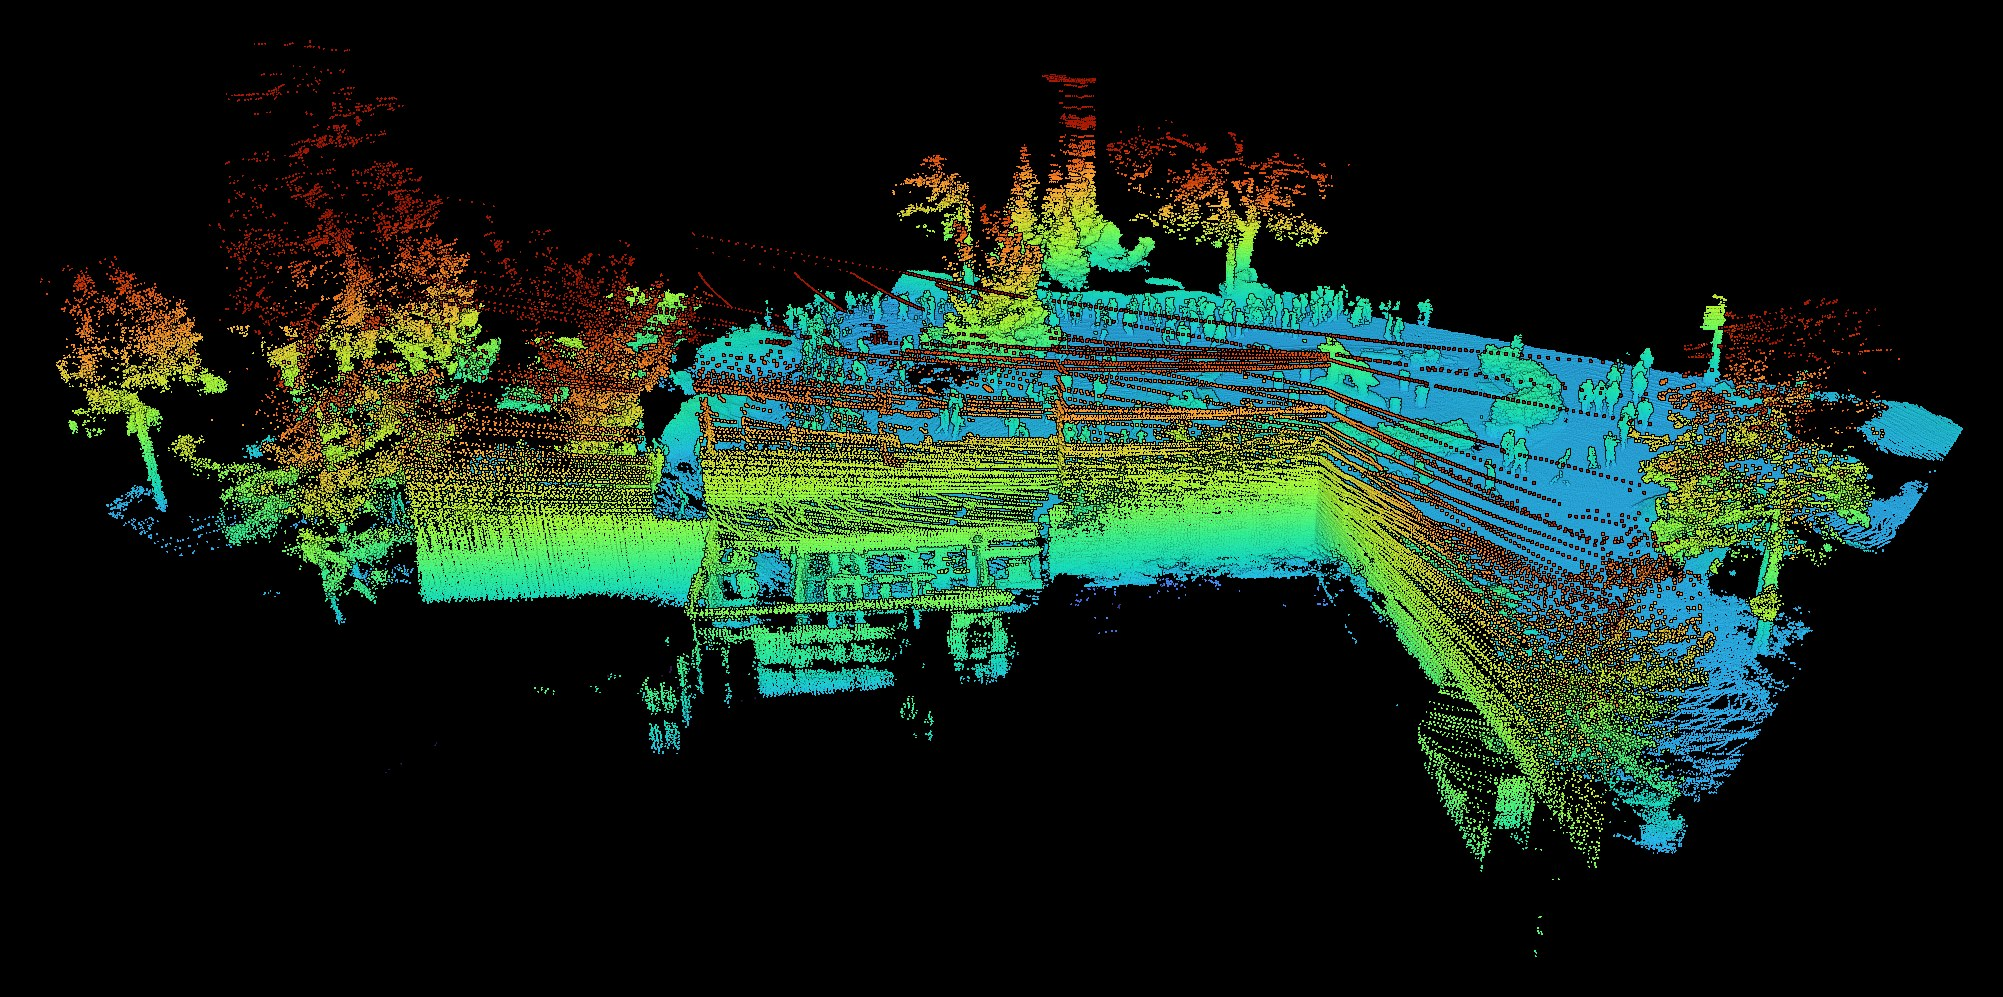
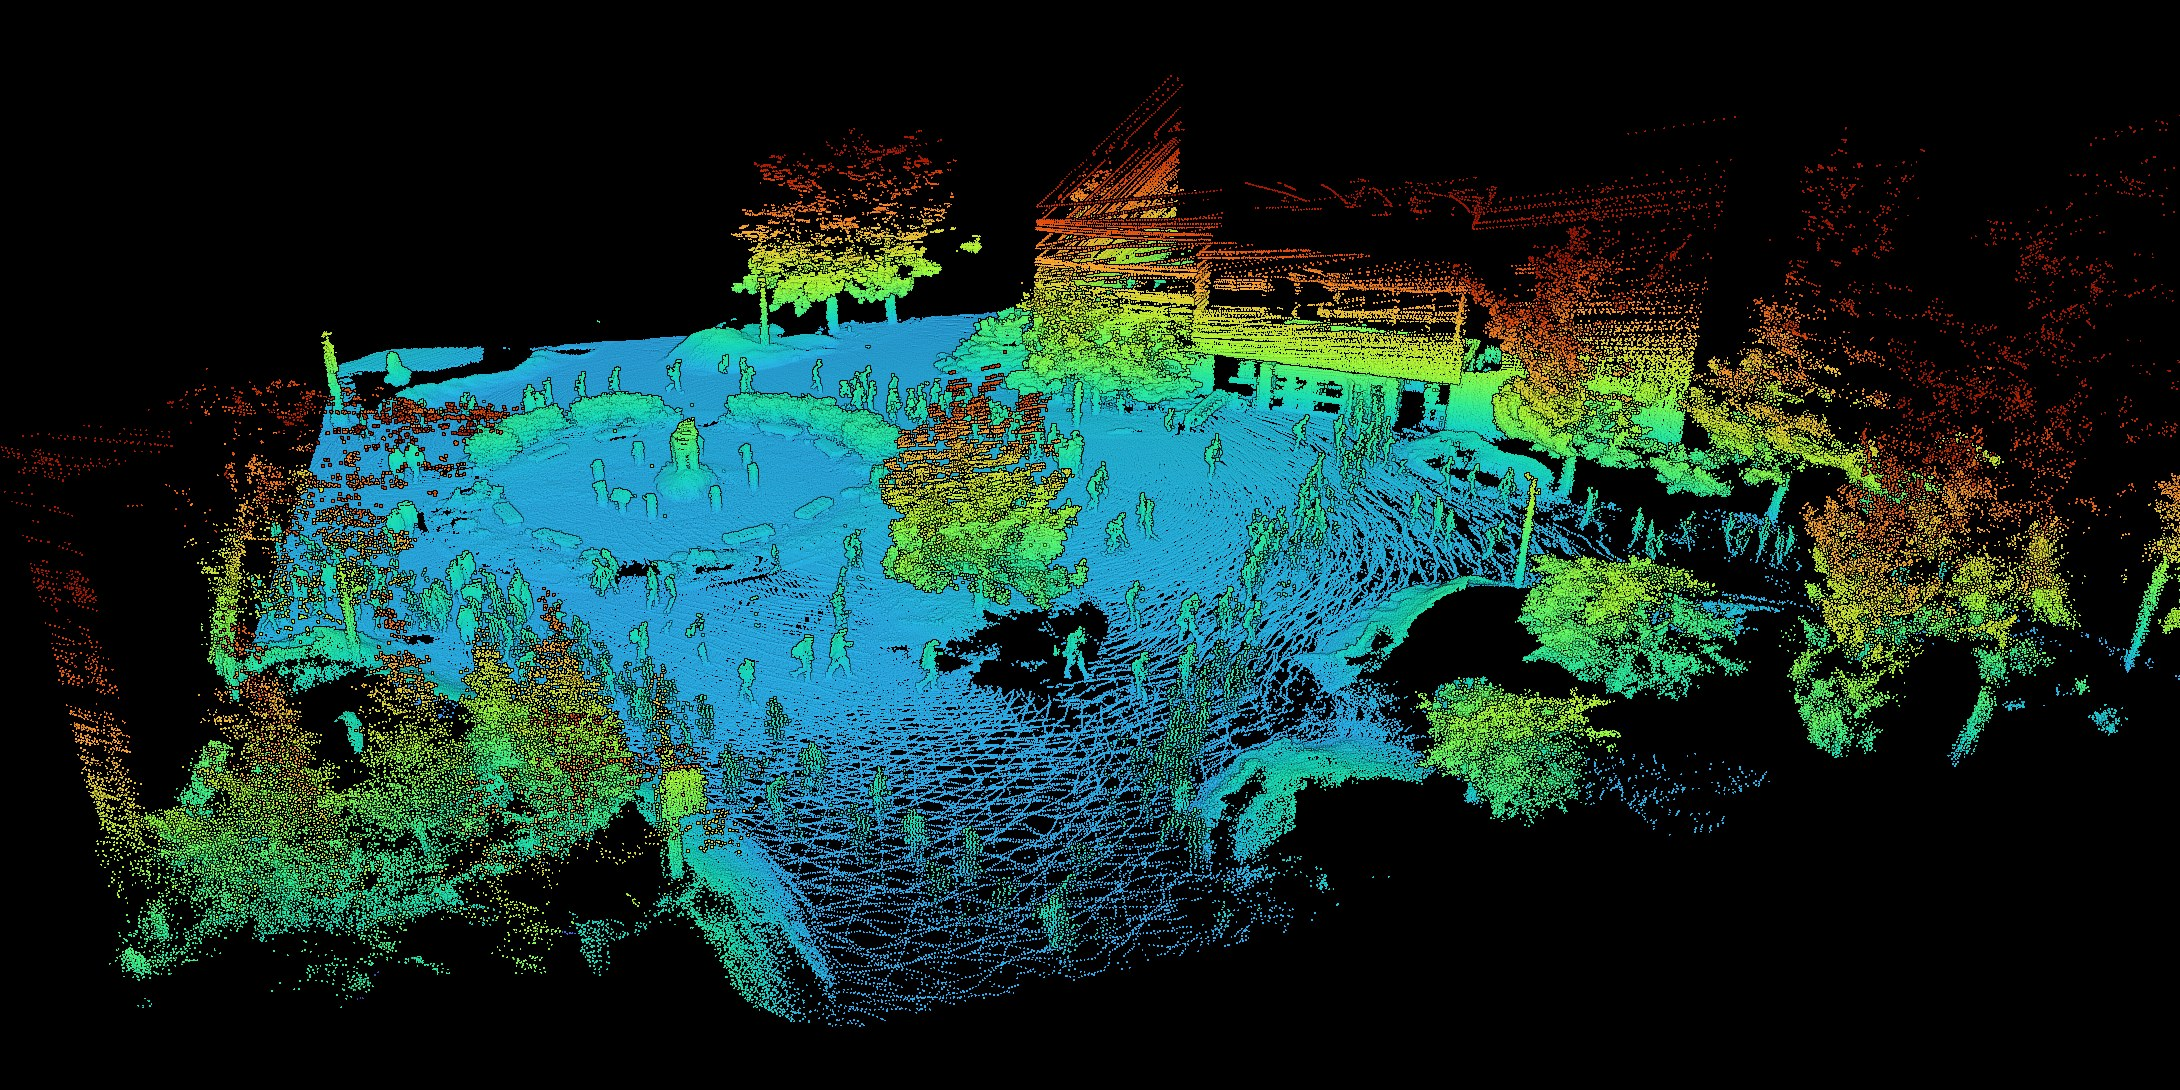
Re-render wide point-cloud shot from the plaza side
The old view looked through the back of the building; the new camera
looks across the plaza toward the facade.

Claude-Session: https://claude.ai/code/session_01B73iyf7nz2WAAxfmECAzii

diff --git a/index.html b/index.html
@@ -163,7 +163,7 @@
         <a href="https://robust-autonomous-systems-laboratory.github.io/RASL-MOLA-Husky-Plaza/" target="_blank" rel="noopener">Open full screen ↗</a>
       </p>
       <figure class="wide-shot">
-        <img src="assets/husky_plaza_facade.jpg" alt="Point cloud of a campus building facade and trees, built from LiDAR scans" loading="lazy">
+        <img src="assets/husky_plaza_facade.jpg" alt="Point cloud looking across Husky Plaza, past the statue and people, toward the building facade" loading="lazy">
       </figure>
     </div>
   </section>
